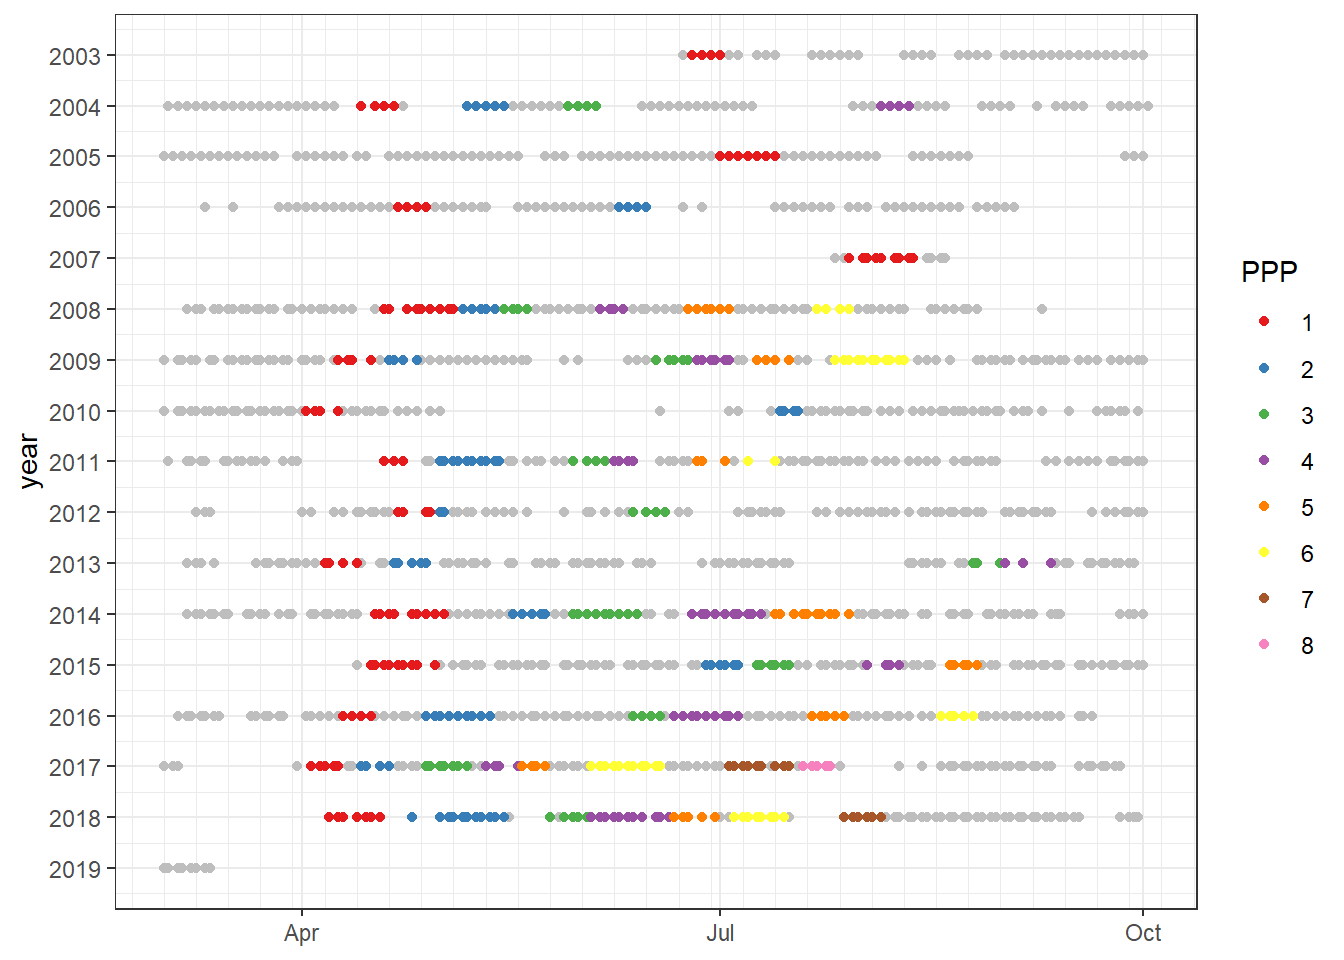
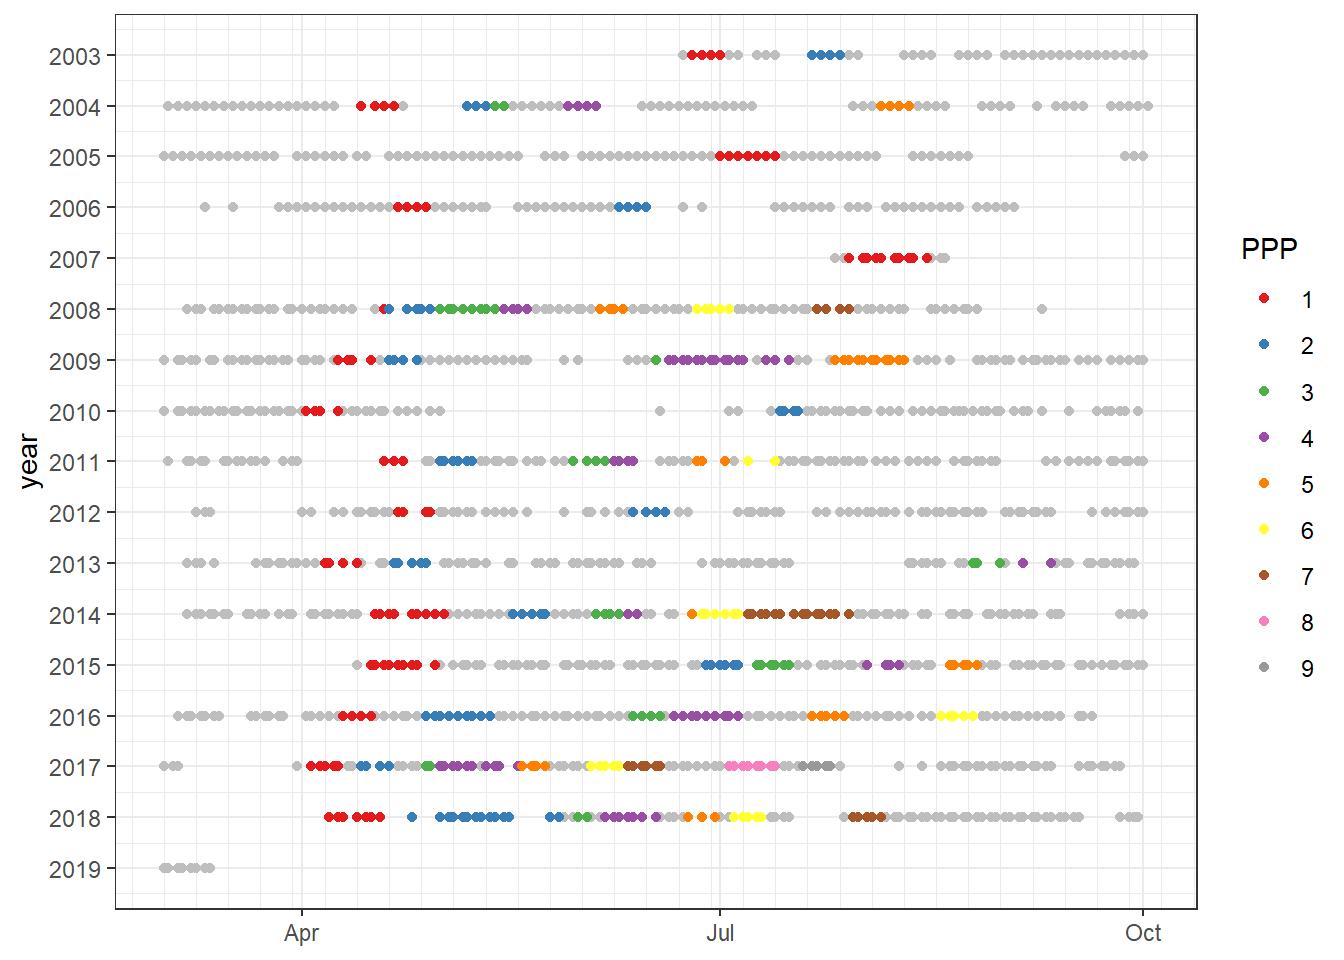
Build site.

diff --git a/docs/CT.html b/docs/CT.html
@@ -426,7 +426,7 @@ div.tocify {
 
 <h1 class="title toc-ignore">CT</h1>
 <h4 class="author">Jens Daniel Müller &amp; Lara Burchardt</h4>
-<h4 class="date">17 April, 2020</h4>
+<h4 class="date">22 April, 2020</h4>
 
 </div>
 
@@ -451,7 +451,7 @@ div.tocify {
 <div class="tab-content">
 <div id="summary" class="tab-pane fade in active">
 <p>
-<strong>Last updated:</strong> 2020-04-17
+<strong>Last updated:</strong> 2020-04-22
 </p>
 <p>
 <strong>Checks:</strong> <span class="glyphicon glyphicon-ok text-success" aria-hidden="true"></span> 7 <span class="glyphicon glyphicon-exclamation-sign text-danger" aria-hidden="true"></span> 0
@@ -542,16 +542,16 @@ This reproducible <a href="http://rmarkdown.rstudio.com">R Markdown</a> analysis
 <div class="panel panel-default">
 <div class="panel-heading">
 <p class="panel-title">
-<a data-toggle="collapse" data-parent="#workflowr-checks" href="#strongRepositoryversionstrongahrefhttpsgithubcomjensdanielmuellerBalticProductivitytreedfdabc74507f76d9484369a0db82f7f6d24f847atargetblankdfdabc7a"> <span class="glyphicon glyphicon-ok text-success" aria-hidden="true"></span> <strong>Repository version:</strong> <a href="https://github.com/jens-daniel-mueller/Baltic_Productivity/tree/dfdabc74507f76d9484369a0db82f7f6d24f847a" target="_blank">dfdabc7</a> </a>
+<a data-toggle="collapse" data-parent="#workflowr-checks" href="#strongRepositoryversionstrongahrefhttpsgithubcomjensdanielmuellerBalticProductivitytreeffa52d8069563f48ec42231fa4e121e7372410e0targetblankffa52d8a"> <span class="glyphicon glyphicon-ok text-success" aria-hidden="true"></span> <strong>Repository version:</strong> <a href="https://github.com/jens-daniel-mueller/Baltic_Productivity/tree/ffa52d8069563f48ec42231fa4e121e7372410e0" target="_blank">ffa52d8</a> </a>
 </p>
 </div>
[2 lines of base64/hex data omitted]
 <div class="panel-body">
 <p>
 Great! You are using Git for version control. Tracking code development and connecting the code version to the results is critical for reproducibility.
 </p>
 <p>
-The results in this page were generated with repository version <a href="https://github.com/jens-daniel-mueller/Baltic_Productivity/tree/dfdabc74507f76d9484369a0db82f7f6d24f847a" target="_blank">dfdabc7</a>. See the <em>Past versions</em> tab to see a history of the changes made to the R Markdown and HTML files.
+The results in this page were generated with repository version <a href="https://github.com/jens-daniel-mueller/Baltic_Productivity/tree/ffa52d8069563f48ec42231fa4e121e7372410e0" target="_blank">ffa52d8</a>. See the <em>Past versions</em> tab to see a history of the changes made to the R Markdown and HTML files.
 </p>
 <p>
 Note that you need to be careful to ensure that all relevant files for the analysis have been committed to Git prior to generating the results (you can use <code>wflow_publish</code> or <code>wflow_git_commit</code>). workflowr only checks the R Markdown file, but you know if there are other scripts or data files that it depends on. Below is the status of the Git repository when the results were generated:
@@ -604,6 +604,40 @@ Message
 </tr>
 </thead>
 <tbody>
+<tr>
+<td>
+Rmd
+</td>
+<td>
+<a href="https://github.com/jens-daniel-mueller/Baltic_Productivity/blob/0b5a17a7b707628e5f20cd4c7212002b747fb501/analysis/CT.Rmd" target="_blank">0b5a17a</a>
+</td>
+<td>
+LSBurchardt
+</td>
+<td>
+2020-04-21
+</td>
+<td>
+#3 ++ lot of the issues solved:
+</td>
+</tr>
+<tr>
+<td>
+html
+</td>
+<td>
+<a href="https://rawcdn.githack.com/jens-daniel-mueller/Baltic_Productivity/0055ce4c79deb9f9477ad378633ee42917dc859a/docs/CT.html" target="_blank">0055ce4</a>
+</td>
+<td>
+jens-daniel-mueller
+</td>
+<td>
+2020-04-17
+</td>
+<td>
+Build site.
+</td>
+</tr>
 <tr>
 <td>
 Rmd
@@ -2064,26 +2098,30 @@ for (n in years) {
     deployment &lt;- max(deployment$deployment)
   
   a &lt;- 1 #ppp enumeration starts new for each year
-  start &lt;- &quot;no&quot; #start variable is set &quot;no&quot; for condition to work, no start possible at beginning of a new deployment
+  start &lt;- &quot;stop&quot; #start variable is set &quot;no&quot; for condition to work, no start possible at beginning of a new deployment
+  end &lt;- &quot;stop&quot;
   
   # second of three loops, loops through each deployment within on year
   for (d in 1:deployment){
    
+    a &lt;- 1
     df_ppp_temp &lt;- df_ppp %&gt;% 
       filter(year == n  , deployment == d) %&gt;% 
       mutate(ppp = NA)
     
+    if(nrow(df_ppp_temp) == 0){next} #e.g. 2011 deployment 1 is empty, would stop there otherwise
     
     # third of three loops, within on deployment of year n, we check ppp criteria for every row
     for (x in 1:nrow(df_ppp_temp)){
+      
+    if (start == &quot;stop&quot; &amp; end == &quot;stop&quot; &amp; is.na(df_ppp_temp$ppp[x]) == TRUE){a &lt;- a +1 
+    } else {a &lt;- a} #while we are in a ppp (checked by start == start) the control number stays the same, if start was no, it is counted up, for every loop it is &quot;no&quot; variable gets counted up, because of that, reassignment at the end still necessary, but reliable, becuase not with date gap, but with ppp gap
   
-    if (start == &quot;start&quot;){a &lt;- a 
-    } else {a &lt;- a + 1} #while we are in a ppp (checked by start == start) the control number stays the same, if start was no, it is counted up, for every loop it is &quot;no&quot; variable gets counted up, because of that, reassignment at the end still necessary, but reliable, becuase not with date gap, but with ppp gap
-  
+      if (start == &quot;stop&quot; &amp; end == &quot;stop&quot; | start== &quot;go&quot; &amp; end == &quot;stop&quot;){
     ##start criteria
     # define subdataset looking forward &quot;timespan_start&quot; days
     lag_start &lt;- df_ppp_temp %&gt;% 
-    filter(date &gt; date[x], date &lt;= (date[x]+ duration(timespan_start, &#39;days&#39;)))
+    filter(date &gt;= date[x], date &lt;= (date[x]+ duration(timespan_start, &#39;days&#39;)))
     
     
     #roll_index &lt;- which.max(lag_start$date) 
@@ -2104,24 +2142,30 @@ for (n in years) {
     
     if (df_ppp_temp$CT[x]-roll_value &gt;= decrease_start) {
     
-    start &lt;- &quot;start&quot; #condition for end-criteria; only TRUE when there was the necessary decrease
+    start &lt;- &quot;go&quot; #condition for end-criteria; only TRUE when there was the necessary decrease
     
     #new ppp value is only assigned, if ppp currently is NA, that way mixing of numbers because of jumps in data is prohibited
     
-   if(is.na(df_ppp_temp$ppp[x:roll_index_df])){
-    df_ppp_temp$ppp[x:roll_index_df] = as.numeric(a) #loop date x : minimum CT within 7 days forward get assigned the same ppp
+#   if(is.na(df_ppp_temp$ppp[x:roll_index_df] == TRUE)){ #:roll_index_df
+#    df_ppp_temp$ppp[x:roll_index_df] = as.numeric(a) #loop date x : minimum CT within 7 days forward get #assigned the same ppp
+#    
+#   } else{is.na(df_ppp_temp[x:roll_index_df])}
+
+    replace &lt;- as.numeric(c(df_ppp_temp$ppp[x:roll_index_df]))
+    ifelse(is.na(df_ppp_temp$ppp[x:roll_index_df]),
+    df_ppp_temp$ppp[x:roll_index_df] &lt;- as.numeric(a),
+    df_ppp_temp$ppp[x:roll_index_df] &lt;- replace)    
     
-   } else{}
     
-    } else{df_ppp_temp$ppp[x] = NA
-           start &lt;- &quot;no&quot;}
+    } else{#df_ppp_temp$ppp[x] = NA
+           start &lt;- &quot;stop&quot;}
     rm(roll_index_df)
-    } else {start &lt;- &quot;no&quot;} #if we don&#39;t have a roll_value or the criterion of decrease is not met start is set FALSE, so that end criteria don&#39;t kick in without a start
-    
+    } else {}#start &lt;- &quot;stop&quot;} #if we don&#39;t have a roll_value or the criterion of decrease is not met start is set FALSE, so that end criteria don&#39;t kick in without a start
+      } else {}
     ##end criteria
     
     #was there a start? then same procdure as for start criterion but looking backwards
-    if (start == &quot;start&quot;){
+    if (start == &quot;go&quot; | start == &quot;stop&quot; &amp; end == &quot;go&quot;){
     
     lag_end &lt;- df_ppp_temp %&gt;% 
     filter(date &lt; date[x], date &gt;= (date[x]- duration(timespan_end, &#39;days&#39;)))
@@ -2138,48 +2182,55 @@ for (n in years) {
     select(row_no) %&gt;% 
     as.numeric()
   
-    if (df_ppp_temp$CT[x]-roll_value &gt;= decrease_end){
+    if (roll_value-df_ppp_temp$CT[x] &gt;= decrease_end){
     
     df_ppp_temp$ppp[x:roll_index_df] = as.numeric(a) #loop date x : minimum CT within 7 days backwards get assigned the same ppp, if criterion was met
+    end &lt;- &quot;go&quot;
  rm(roll_index_df)
-    } else{} #if criterion is not met, we do nothing as NAs are already assigned in start and this would potentially overwrite an existing ppp entry
+    } else{end &lt;- &quot;stop&quot;} #if criterion is not met, we do nothing as NAs are already assigned in start and this would potentially overwrite an existing ppp entry
     
-    } else {next} #if we can&#39;t look backwards, we jump to the next loop iteration
-    
-    if (exists(&quot;fm_ppp&quot;, inherits = FALSE)){
-        fm_ppp &lt;- bind_rows(fm_ppp, df_ppp_temp)
-        }else{fm_ppp &lt;- df_ppp_temp}
+    } else {} #if we can&#39;t look backwards, we jump to the next loop iteration
     
     rm(lag_end)
     
-      }#end start == TRUE condition
+    }else {end &lt;- &quot;stop&quot;
+      start &lt; &quot;stop&quot;}
+      #a &lt;- a+1 }#end start == TRUE condition
     
-    rm(roll_index, roll_value, lag_start)
+    rm(roll_index, roll_value)
     
     } #end  loop through df_ppp_temp
+    
+    if (exists(&quot;fm_ppp&quot;, inherits = FALSE)){
+        fm_ppp &lt;- bind_rows(fm_ppp, df_ppp_temp)
+    }else{fm_ppp &lt;- df_ppp_temp}
+    
+    rm(df_ppp_temp)
   }#end of loop through deployments
 }#end of loop through years
 
 # remove duplicates and NAs
-fm_ppp_dup &lt;- fm_ppp[!duplicated(fm_ppp),] %&gt;% 
-  arrange(date)
+#fm_ppp_dup &lt;- fm_ppp[!duplicated(fm_ppp),] %&gt;% 
+#  arrange(date)
 
-fm_ppp_dup_na &lt;- fm_ppp_dup %&gt;% 
+fm_ppp_na &lt;- fm_ppp %&gt;% 
   drop_na()
 
 # enumeration of ppps, remove duplicates again 
 
 #ppps are now reliably numbered, but not correctly from 1-2-3 etc. so they get renumbered again, new number starting from 1 whenever the gap in ppp is &gt; 1
-fm_ppp_final &lt;- fm_ppp_dup_na %&gt;% 
+fm_ppp_final &lt;- fm_ppp_na %&gt;% 
   group_by(year) %&gt;%
-  mutate(ppp = as.factor(cumsum(c(TRUE,diff(ppp)&gt; 1)))) %&gt;% 
+  #mutate(contvar = cumsum(c(TRUE, abs(diff(date)&gt;=7)))) %&gt;%
+  #mutate(ppp_2 = contvar*ppp) %&gt;% 
+  mutate(ppp_2 = as.factor(cumsum(c(TRUE,abs(diff(ppp))&gt;=1)))) %&gt;% 
   ungroup()
 
 fm_ppp_final &lt;- fm_ppp_final[!duplicated(fm_ppp_final),]
 
 ggplot()+
   geom_point(data = df, aes(as.Date(yday(date)), year), col=&quot;grey&quot;)+
-  geom_point(data = fm_ppp_final, aes(as.Date(yday(date)), year, col = as.factor(ppp)))+
+  geom_point(data = fm_ppp_final, aes(as.Date(yday(date)), year, col = as.factor(ppp_2)))+
   scale_y_reverse(breaks = seq(2000,2030,1))+
   scale_x_date(date_minor_breaks = &quot;week&quot;,
                date_labels = &quot;%b&quot;)+
@@ -2192,7 +2243,7 @@ ggplot()+
 <h2><span class="header-section-number">8.1</span> CT yearly time series</h2>
 <pre class="r"><code>ggplot()+
   geom_point(data = df, aes(as.Date(yday(date)), CT), color = &quot;grey&quot;)+
-  geom_point(data = fm_ppp_final, aes(as.Date(yday(date)), CT, color = as.factor(ppp)))+
+  geom_point(data = fm_ppp_final, aes(as.Date(yday(date)), CT, color = as.factor(ppp_2)))+
   scale_y_continuous(breaks = seq(1000,2000,100),
                      minor_breaks = seq(1000,2000,20))+
   scale_x_date(date_minor_breaks = &quot;week&quot;,
